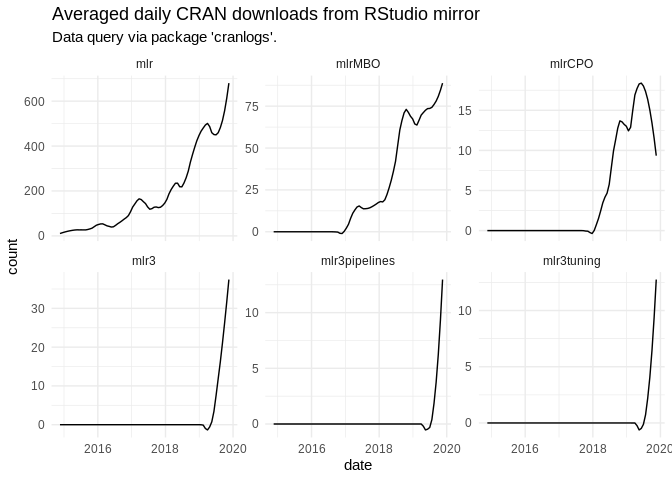
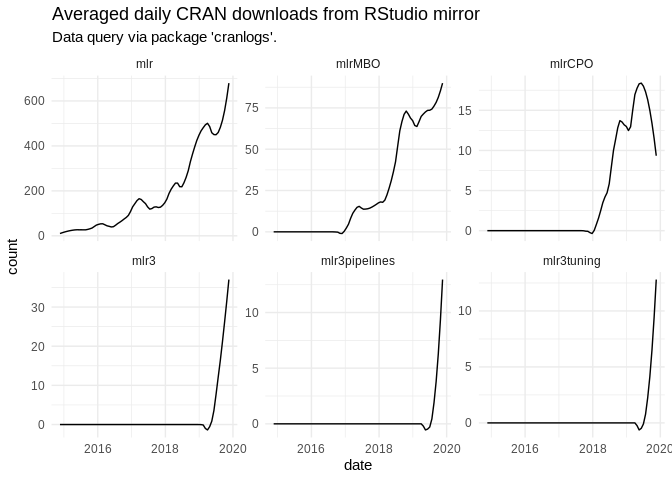
Deploy from Travis build 20 [ci skip]
Build URL: https://travis-ci.org/mlr-org/mlrcranlog/builds/614284955
Commit: 923f0706dcfbce7dc894791a8020f17f58036f74

diff --git a/README.md b/README.md
@@ -9,7 +9,7 @@
 
 Created on
 
-    ## [1] "2019-11-18"
+    ## [1] "2019-11-19"
 
 <details>
 
